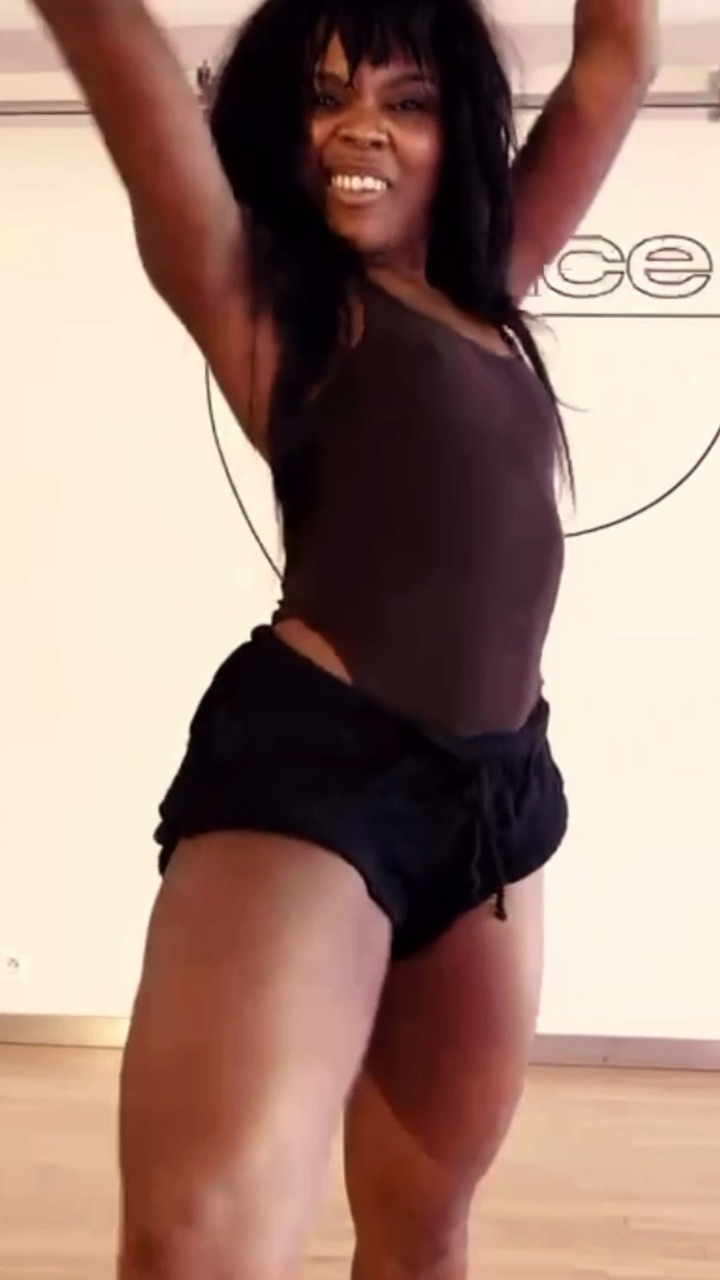
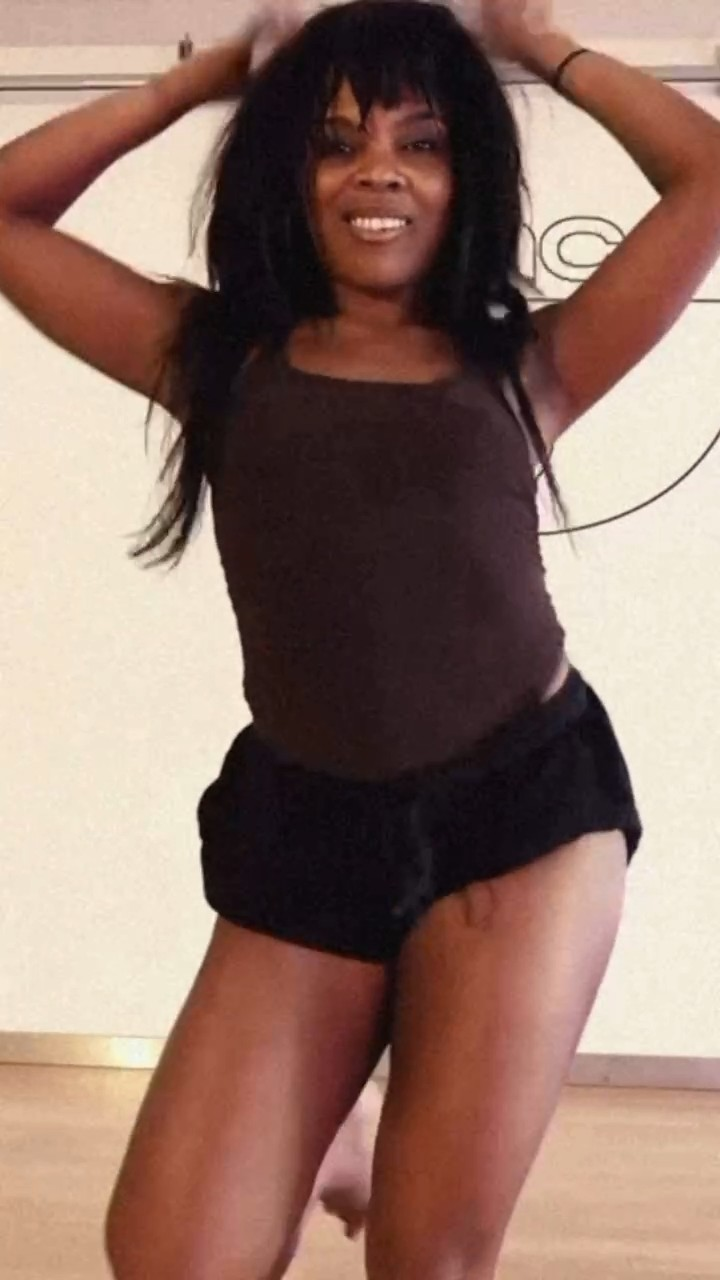
Change l'image d'accueil et masque le bouton play sur iPhone
Quand l'iPhone bloque la lecture automatique (mode économie d'énergie),
l'image d'accueil reste affichée : elle montre maintenant un sourire doux,
les mains sur la tête, et le gros bouton play n'apparaît plus. La vidéo
part au premier toucher.

diff --git a/public/styles.css b/public/styles.css
@@ -112,6 +112,10 @@ h1 em, h2 em, .devise em {
   mask-image: linear-gradient(to bottom, transparent, rgba(0, 0, 0, .07) 2.3%, rgba(0, 0, 0, .26) 4.7%, rgba(0, 0, 0, .5) 7%, rgba(0, 0, 0, .74) 9.3%, rgba(0, 0, 0, .93) 11.7%, #000 14%, #000 82%, rgba(0, 0, 0, .93) 85%, rgba(0, 0, 0, .74) 88%, rgba(0, 0, 0, .5) 91%, rgba(0, 0, 0, .26) 94%, rgba(0, 0, 0, .07) 97%, transparent);
 }
 .accueil-reel video { width: 100%; height: 100%; object-fit: cover; }
+/* Sur iPhone, quand la lecture automatique est bloquée (mode économie d'énergie) : pas de gros bouton play.
+   L'image d'accueil reste affichée, et la vidéo part au premier toucher, n'importe où sur la page. */
+.accueil-reel video::-webkit-media-controls-start-playback-button { display: none !important; -webkit-appearance: none; }
+.accueil-reel video::-webkit-media-controls { display: none !important; }
 .accueil-voile, .accueil-voile::before, .accueil-voile::after { position: absolute; inset: 0; pointer-events: none; }
 .accueil-voile::before, .accueil-voile::after { content: ""; }
 .accueil-voile::before { mix-blend-mode: multiply; background: linear-gradient(to right, rgba(106, 36, 49, .3), rgba(106, 36, 49, .3) 50%, rgba(106, 36, 49, .2) 58%, rgba(106, 36, 49, .1) 64%, rgba(106, 36, 49, .06) 72%, rgba(106, 36, 49, .08) 84%, rgba(106, 36, 49, .2) 93%, rgba(106, 36, 49, .3)); }

diff --git a/public/index.html b/public/index.html
@@ -21,7 +21,7 @@
   <link rel="preconnect" href="https://fonts.googleapis.com">
   <link rel="preconnect" href="https://fonts.gstatic.com" crossorigin>
   <link href="https://fonts.googleapis.com/css2?family=Archivo:wght@400;500;600&family=Cormorant+Garamond:ital,wght@0,600;1,500&display=swap" rel="stylesheet">
-  <link rel="stylesheet" href="styles.css?v=6">
+  <link rel="stylesheet" href="styles.css?v=7">
   <script>document.documentElement.classList.add("js")</script>
 </head>
 <body>
@@ -56,7 +56,7 @@
       </div>
       <figure class="accueil-reel">
         <div class="accueil-fondu">
-          <video autoplay muted loop playsinline preload="metadata" poster="media/accueil.jpg" aria-label="Rolaine danse, avec le sourire"><source src="video/accueil.mp4?v=3" type="video/mp4"></video>
+          <video autoplay muted loop playsinline preload="metadata" poster="media/accueil.jpg?v=2" aria-label="Rolaine danse, avec le sourire"><source src="video/accueil.mp4?v=3" type="video/mp4"></video>
         </div>
       </figure>
     </div>

diff --git a/public/mentions-legales.html b/public/mentions-legales.html
@@ -11,7 +11,7 @@
   <link rel="preconnect" href="https://fonts.googleapis.com">
   <link rel="preconnect" href="https://fonts.gstatic.com" crossorigin>
   <link href="https://fonts.googleapis.com/css2?family=Archivo:wght@400;500;600&family=Cormorant+Garamond:ital,wght@0,600;1,500&display=swap" rel="stylesheet">
-  <link rel="stylesheet" href="styles.css?v=6">
+  <link rel="stylesheet" href="styles.css?v=7">
 </head>
 <body>
 <header class="entete">
